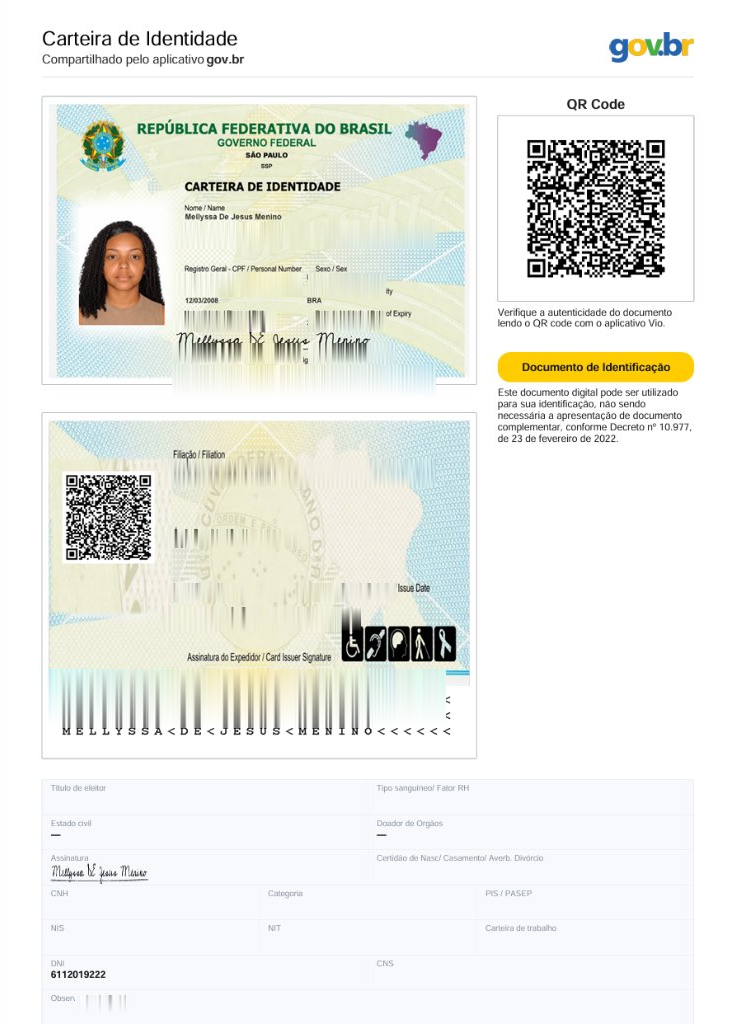
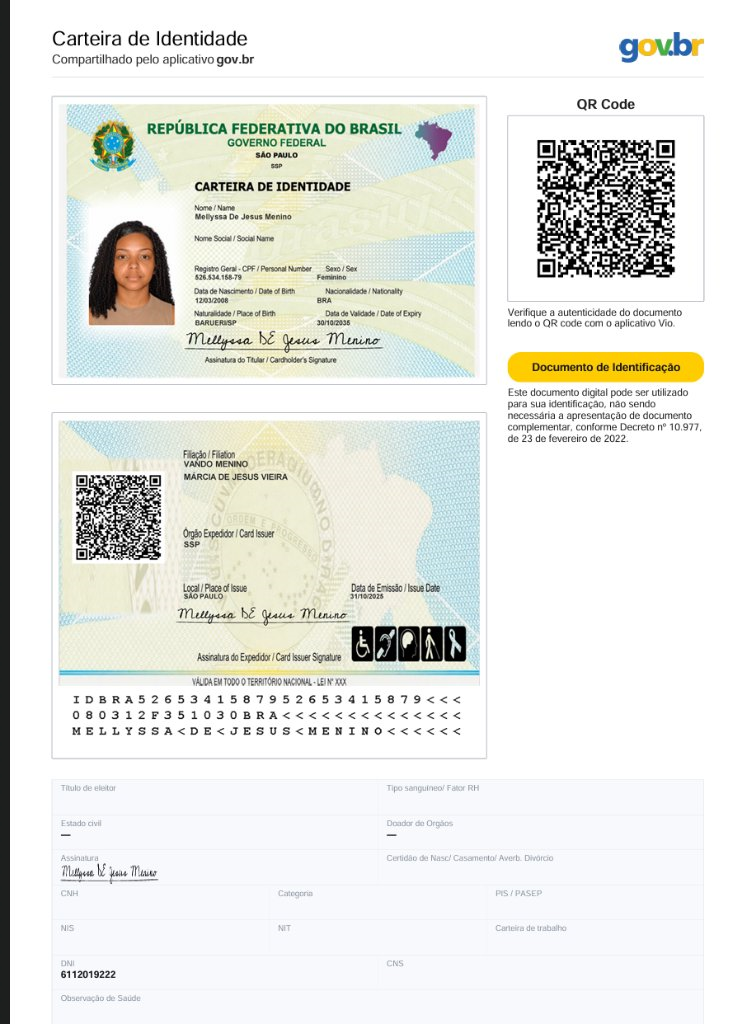
fix(rg): restaurar imagem original sem borroes e calibrar alinhamento 1:1 dos campos dinamicos

diff --git a/criar-rg.html b/criar-rg.html
@@ -433,10 +433,10 @@
             padding: 10px 0 30px 0;
         }
 
-        /* ─── FOLHA A4 OFICIAL CARTEIRA DE IDENTIDADE (794px × 1123px) ─── */
+        /* ─── FOLHA A4 OFICIAL CARTEIRA DE IDENTIDADE (742px × 1024px) ─── */
         .sheet-a4 {
-            width: 794px;
-            height: 1123px;
+            width: 742px;
+            height: 1024px;
             background: #ffffff;
             color: #0f172a;
             box-sizing: border-box;
@@ -465,7 +465,7 @@
             display: block;
         }
 
-        /* CAMADA DE OVERLAYS DINÂMICOS (ACIONADA APENAS QUANDO O USUÁRIO EDITAR) */
+        /* CAMADA DE OVERLAYS DINÂMICOS */
         .dynamic-overlay-layer {
             position: absolute;
             top: 0;
@@ -476,39 +476,42 @@
             pointer-events: none;
         }
 
-        /* ELEMENTOS DINÂMICOS COM NÍTIDEZ TOTAL (ZERO BORRÃO, ZERO PATCH, BACKGROUND TRANSPARENTE) */
+        /* ELEMENTOS DINÂMICOS COM NÍTIDEZ TOTAL (ZERO BORRÃO, ALINHAMENTO 1:1) */
         .dyn-box {
             position: absolute;
-            display: flex;
+            display: none;
             align-items: center;
             box-sizing: border-box;
             font-family: Arial, "Helvetica Neue", Helvetica, sans-serif;
-            color: #0f172a;
-            background: transparent !important;
-            border: none !important;
-            padding: 0 !important;
+            color: #000000;
+            padding: 0 2px !important;
             margin: 0 !important;
             white-space: nowrap;
             overflow: hidden;
             text-overflow: ellipsis;
             line-height: 1;
+            z-index: 6;
             -webkit-font-smoothing: antialiased;
             -moz-osx-font-smoothing: grayscale;
             text-rendering: optimizeLegibility;
         }
 
+        .fundo-frente { background: #edebe2 !important; }
+        .fundo-verso { background: #eae7c8 !important; }
+        .fundo-mrz { background: #ffffff !important; }
+
         /* Foto Dinâmica 3x4 */
         #dynPhotoHolder {
-            top: 18.2%;
-            left: 8.7%;
-            width: 14.5%;
-            height: 14.8%;
-            border-radius: 4px;
+            top: 208px;
+            left: 79px;
+            width: 95px;
+            height: 118px;
+            border-radius: 2px;
             overflow: hidden;
             box-shadow: 0 0 0 1px rgba(0,0,0,0.25);
             background: #e2e8f0;
             z-index: 6;
-            display: block;
+            display: none;
         }
         #dynPhotoHolder img {
             width: 100%;
@@ -519,14 +522,13 @@
 
         /* Assinatura Dinâmica do Titular */
         #dynSigHolder {
-            top: 35.8%;
-            left: 23.8%;
-            width: 35%;
-            height: 2.8%;
+            top: 336px;
+            left: 184px;
+            width: 250px;
+            height: 24px;
             z-index: 6;
-            background: transparent !important;
-            border: none !important;
-            display: flex;
+            background: #f6faf3 !important;
+            display: none;
             align-items: center;
             justify-content: flex-start;
         }
@@ -539,33 +541,33 @@
         #dynSigText {
             display: none;
             font-family: 'Homemade Apple', 'Cedarville Cursive', cursive;
-            font-size: 14px;
-            color: #1e293b;
+            font-size: 13px;
+            color: #000000;
             font-weight: 600;
         }
 
-        /* Textos Dinâmicos da Frente (Alinhamento Preciso sob os Rótulos Oficiais) */
-        #dynNome { top: 22.3%; left: 23.8%; width: 36%; height: 18px; font-size: 11px; font-weight: 700; color: #0f172a; }
-        #dynCpf { top: 27.2%; left: 23.8%; width: 17.5%; height: 16px; font-size: 10px; font-weight: 700; color: #0f172a; }
-        #dynSexo { top: 27.2%; left: 42.2%; width: 12%; height: 16px; font-size: 10px; font-weight: 700; color: #0f172a; }
-        #dynNasc { top: 30.7%; left: 23.8%; width: 17.5%; height: 16px; font-size: 10px; font-weight: 700; color: #0f172a; }
-        #dynNac { top: 30.7%; left: 42.2%; width: 12%; height: 16px; font-size: 10px; font-weight: 700; color: #0f172a; }
-        #dynNat { top: 33.9%; left: 23.8%; width: 17.5%; height: 16px; font-size: 10px; font-weight: 700; color: #0f172a; }
-        #dynVal { top: 33.9%; left: 42.2%; width: 14%; height: 16px; font-size: 10px; font-weight: 700; color: #0f172a; }
+        /* Textos Dinâmicos da Frente (Alinhamento Cirúrgico sob os Rótulos Oficiais) */
+        #dynNome { top: 213px; left: 184px; width: 280px; height: 16px; font-size: 11px; font-weight: 700; color: #000000; }
+        #dynCpf { top: 269px; left: 184px; width: 135px; height: 15px; font-size: 10px; font-weight: 700; color: #000000; }
+        #dynSexo { top: 269px; left: 326px; width: 95px; height: 15px; font-size: 10px; font-weight: 700; color: #000000; }
+        #dynNasc { top: 291px; left: 184px; width: 135px; height: 15px; font-size: 10px; font-weight: 700; color: #000000; }
+        #dynNac { top: 291px; left: 326px; width: 95px; height: 15px; font-size: 10px; font-weight: 700; color: #000000; }
+        #dynNat { top: 323px; left: 184px; width: 135px; height: 15px; font-size: 10px; font-weight: 700; color: #000000; }
+        #dynVal { top: 323px; left: 326px; width: 95px; height: 15px; font-size: 10px; font-weight: 700; color: #000000; }
 
         /* Textos Dinâmicos do Verso (Filiação e Emissão) */
-        #dynPai { top: 45.0%; left: 22.3%; width: 37%; height: 14px; font-size: 9.5px; font-weight: 700; color: #0f172a; }
-        #dynMae { top: 46.2%; left: 22.3%; width: 37%; height: 14px; font-size: 9.5px; font-weight: 700; color: #0f172a; }
-        #dynOrgao { top: 51.9%; left: 22.3%; width: 18%; height: 14px; font-size: 9.5px; font-weight: 700; color: #0f172a; }
-        #dynLocal { top: 57.2%; left: 22.3%; width: 17%; height: 14px; font-size: 9.5px; font-weight: 700; color: #0f172a; }
-        #dynEmissao { top: 57.2%; left: 40.5%; width: 14%; height: 14px; font-size: 9.5px; font-weight: 700; color: #0f172a; }
+        #dynPai { top: 455px; left: 184px; width: 250px; height: 13px; font-size: 9.5px; font-weight: 700; color: #000000; text-transform: uppercase; }
+        #dynMae { top: 471px; left: 184px; width: 250px; height: 13px; font-size: 9.5px; font-weight: 700; color: #000000; text-transform: uppercase; }
+        #dynOrgao { top: 531px; left: 184px; width: 150px; height: 15px; font-size: 9.5px; font-weight: 700; color: #000000; }
+        #dynLocal { top: 584px; left: 184px; width: 140px; height: 15px; font-size: 9.5px; font-weight: 700; color: #000000; text-transform: uppercase; }
+        #dynEmissao { top: 584px; left: 348px; width: 100px; height: 15px; font-size: 9.5px; font-weight: 700; color: #000000; }
 
         /* MRZ (3 Linhas no Verso) */
         #dynMrz {
-            top: 65.6%;
-            left: 4.1%;
-            width: 58%;
-            height: 52px;
+            top: 679px;
+            left: 72px;
+            width: 410px;
+            height: 48px;
             font-family: 'Share Tech Mono', 'Courier New', monospace;
             font-size: 10.5px;
             line-height: 1.25;
@@ -574,18 +576,19 @@
             color: #000000;
             white-space: pre;
             align-items: flex-start;
-            background: transparent !important;
+            background: #ffffff !important;
+            padding: 2px 4px !important;
         }
 
         /* Tabela Inferior Dinâmica */
-        #dynDni { top: 97.4%; left: 10.4%; width: 22%; height: 14px; font-size: 9.5px; font-weight: 700; color: #0f172a; background: transparent !important; }
+        #dynDni { top: 945px; left: 50px; width: 130px; height: 14px; font-size: 9.5px; font-weight: 700; color: #000000; background: #ffffff !important; }
 
         /* QR Code Vio Dinâmico (Lado Direito) */
         #dynQrVioBox {
-            top: 13.5%;
-            left: 72.0%;
-            width: 17.5%;
-            height: 13.5%;
+            top: 132px;
+            left: 532px;
+            width: 145px;
+            height: 145px;
             background: #ffffff;
             display: none;
             align-items: center;
@@ -973,26 +976,26 @@ document.addEventListener('DOMContentLoaded', function() {
                         </div>
 
                         <!-- Textos Frente -->
-                        <div id="dynNome" class="dyn-box"></div>
-                        <div id="dynCpf" class="dyn-box"></div>
-                        <div id="dynSexo" class="dyn-box"></div>
-                        <div id="dynNasc" class="dyn-box"></div>
-                        <div id="dynNac" class="dyn-box"></div>
-                        <div id="dynNat" class="dyn-box"></div>
-                        <div id="dynVal" class="dyn-box"></div>
+                        <div id="dynNome" class="dyn-box fundo-frente"></div>
+                        <div id="dynCpf" class="dyn-box fundo-frente"></div>
+                        <div id="dynSexo" class="dyn-box fundo-frente"></div>
+                        <div id="dynNasc" class="dyn-box fundo-frente"></div>
+                        <div id="dynNac" class="dyn-box fundo-frente"></div>
+                        <div id="dynNat" class="dyn-box fundo-frente"></div>
+                        <div id="dynVal" class="dyn-box fundo-frente"></div>
 
                         <!-- Textos Verso -->
-                        <div id="dynPai" class="dyn-box"></div>
-                        <div id="dynMae" class="dyn-box"></div>
-                        <div id="dynOrgao" class="dyn-box"></div>
-                        <div id="dynLocal" class="dyn-box"></div>
-                        <div id="dynEmissao" class="dyn-box"></div>
+                        <div id="dynPai" class="dyn-box fundo-verso"></div>
+                        <div id="dynMae" class="dyn-box fundo-verso"></div>
+                        <div id="dynOrgao" class="dyn-box fundo-verso"></div>
+                        <div id="dynLocal" class="dyn-box fundo-verso"></div>
+                        <div id="dynEmissao" class="dyn-box fundo-verso"></div>
 
                         <!-- MRZ 3 Linhas Verso -->
-                        <div id="dynMrz" class="dyn-box"></div>
+                        <div id="dynMrz" class="dyn-box fundo-mrz"></div>
 
                         <!-- DNI Tabela -->
-                        <div id="dynDni" class="dyn-box"></div>
+                        <div id="dynDni" class="dyn-box fundo-mrz"></div>
 
                         <!-- QR Code Vio Dinâmico -->
                         <div id="dynQrVioBox" class="dyn-box">
@@ -1112,28 +1115,35 @@ document.addEventListener('DOMContentLoaded', function() {
             return `${line1}\n${line2}\n${line3}`;
         }
 
-        function setFieldText(id, value) {
+        function updateFieldOverlay(id, currentVal, defaultVal) {
             const el = document.getElementById(id);
             if (!el) return;
-            el.textContent = value;
-            el.style.display = 'flex';
+            const isModified = (currentVal || '').trim().toUpperCase() !== (defaultVal || '').trim().toUpperCase();
+            if (isModified) {
+                el.textContent = currentVal;
+                el.style.display = 'flex';
+            } else {
+                el.textContent = '';
+                el.style.display = 'none';
+            }
         }
 
         function updateTitularSignature(nome) {
+            const sigHolder = document.getElementById('dynSigHolder');
             const sigImg = document.getElementById('dynSigImg');
             const sigText = document.getElementById('dynSigText');
             if (isCustomSig) {
+                if (sigHolder) sigHolder.style.display = 'flex';
                 if (sigImg) sigImg.style.display = 'block';
                 if (sigText) sigText.style.display = 'none';
                 return;
             }
             if (!nome || nome.toUpperCase() === DEFAULT_MELLYSSA.nome.toUpperCase()) {
-                if (sigImg) {
-                    sigImg.src = 'assets/mellyssa_sig.png';
-                    sigImg.style.display = 'block';
-                }
+                if (sigHolder) sigHolder.style.display = 'none';
+                if (sigImg) sigImg.style.display = 'none';
                 if (sigText) sigText.style.display = 'none';
             } else {
+                if (sigHolder) sigHolder.style.display = 'flex';
                 if (sigImg) sigImg.style.display = 'none';
                 if (sigText) {
                     sigText.textContent = toTitleCase(nome);
@@ -1157,26 +1167,36 @@ document.addEventListener('DOMContentLoaded', function() {
             const orgao = (document.getElementById('inpOrgao').value || '').trim() || DEFAULT_MELLYSSA.orgao;
             const local = (document.getElementById('inpLocal').value || '').trim() || DEFAULT_MELLYSSA.local;
             const emissao = (document.getElementById('inpEmissao').value || '').trim() || DEFAULT_MELLYSSA.emissao;
-            const dni = (document.getElementById('inpDni').value || '').trim() || cpf;
+            const dni = (document.getElementById('inpDni').value || '').trim() || DEFAULT_MELLYSSA.dni;
 
-            // Renderiza os valores diretamente nas linhas oficiais com nitidez máxima
-            setFieldText('dynNome', nome);
-            setFieldText('dynCpf', cpf);
-            setFieldText('dynSexo', sexo);
-            setFieldText('dynNasc', nasc);
-            setFieldText('dynNac', nac);
-            setFieldText('dynNat', nat);
-            setFieldText('dynVal', val);
+            // Ativa overlay cirúrgico apenas nos campos alterados (evitando duplicação/fantasmas)
+            updateFieldOverlay('dynNome', nome, DEFAULT_MELLYSSA.nome);
+            updateFieldOverlay('dynCpf', cpf, DEFAULT_MELLYSSA.cpf);
+            updateFieldOverlay('dynSexo', sexo, DEFAULT_MELLYSSA.sexo);
+            updateFieldOverlay('dynNasc', nasc, DEFAULT_MELLYSSA.nasc);
+            updateFieldOverlay('dynNac', nac, DEFAULT_MELLYSSA.nac);
+            updateFieldOverlay('dynNat', nat, DEFAULT_MELLYSSA.nat);
+            updateFieldOverlay('dynVal', val, DEFAULT_MELLYSSA.val);
 
-            setFieldText('dynPai', pai);
-            setFieldText('dynMae', mae);
-            setFieldText('dynOrgao', orgao);
-            setFieldText('dynLocal', local);
-            setFieldText('dynEmissao', emissao);
-            setFieldText('dynDni', dni);
+            updateFieldOverlay('dynPai', pai, DEFAULT_MELLYSSA.pai);
+            updateFieldOverlay('dynMae', mae, DEFAULT_MELLYSSA.mae);
+            updateFieldOverlay('dynOrgao', orgao, DEFAULT_MELLYSSA.orgao);
+            updateFieldOverlay('dynLocal', local, DEFAULT_MELLYSSA.local);
+            updateFieldOverlay('dynEmissao', emissao, DEFAULT_MELLYSSA.emissao);
+            updateFieldOverlay('dynDni', dni, DEFAULT_MELLYSSA.dni);
 
             // MRZ 3 Linhas Dinâmicas no Verso
-            setFieldText('dynMrz', generateMrzLines(cpf, nome, nasc, sexo, val));
+            const mrzModified = (cpf !== DEFAULT_MELLYSSA.cpf || nome.toUpperCase() !== DEFAULT_MELLYSSA.nome.toUpperCase() || nasc !== DEFAULT_MELLYSSA.nasc || sexo !== DEFAULT_MELLYSSA.sexo || val !== DEFAULT_MELLYSSA.val);
+            const dynMrz = document.getElementById('dynMrz');
+            if (dynMrz) {
+                if (mrzModified) {
+                    dynMrz.textContent = generateMrzLines(cpf, nome, nasc, sexo, val);
+                    dynMrz.style.display = 'flex';
+                } else {
+                    dynMrz.textContent = '';
+                    dynMrz.style.display = 'none';
+                }
+            }
 
             // Assinatura do Titular
             updateTitularSignature(nome);
@@ -1273,13 +1293,11 @@ document.addEventListener('DOMContentLoaded', function() {
             isCustomPhoto = false;
             isCustomSig = false;
 
-            const photoImg = document.getElementById('dynPhotoImg');
-            if (photoImg) photoImg.src = 'assets/mellyssa_foto.png';
-            const sigImg = document.getElementById('dynSigImg');
-            if (sigImg) sigImg.src = 'assets/mellyssa_sig.png';
-            const sigText = document.getElementById('dynSigText');
-            if (sigText) sigText.style.display = 'none';
-            if (sigImg) sigImg.style.display = 'block';
+            const photoHolder = document.getElementById('dynPhotoHolder');
+            if (photoHolder) photoHolder.style.display = 'none';
+
+            const sigHolder = document.getElementById('dynSigHolder');
+            if (sigHolder) sigHolder.style.display = 'none';
 
             handleFieldChange();
         }
